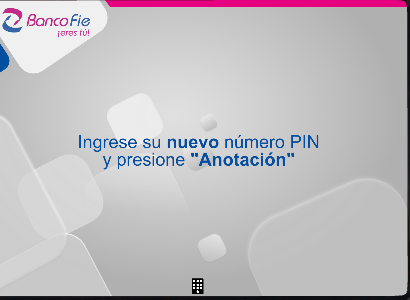
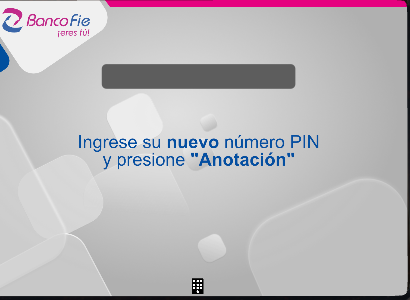
flow complete

Changed region(s): [[0.2341, 0.21, 0.7317, 0.3]]

diff --git a/old/atm/flow.js b/old/atm/flow.js
@@ -11,13 +11,42 @@ var flow = (() => {
     return new BABYLON.ExecuteCodeAction(BABYLON.ActionManager.OnPickTrigger, f );
   };
 
-  var unstickTheCard = function () {
+  var somethingElseScreen = {
+    buttons: ['touch r 1', 'touch r 2'],
+    actions: [
+      babylonAction(() => {
+        unstickTheCard();
+      }),
+      babylonAction(() => goToScreen("4"))
+    ]
+  }
+
+  var handleChangePinInput = function () {
+    if (game.numbersPanel.isEnabled() && game.numbersPanel.button.input.length >= 4) {
+      if (flow.currentScreen.name == "24") {
+        game.changeAtmCode = game.numbersPanel.button.input;
+        goToScreen("25");
+      } else if (flow.currentScreen.name == "25") {
+        if (game.changeAtmCode == game.numbersPanel.button.input) {
+          game.atmCode = game.changeAtmCode;
+          goToScreen("26");
+        } else {
+          goToScreen("27");
+        }
+      }
+    }
+  }
+
+  var unstickTheCard = function (goesBlank = true) {
     if (!game.isCardInside) return;
     game.isCardInside = false;
-    goToScreen("0");
+    if (goesBlank) {
+      goToScreen("0");
+    }
     game.card.setEnabled(true);
     game.skeleton.beginAnimation("UnstickTheCard", false, 1, function () {
       game.card.actionManager.registerAction(game.card.stickInAction);
+      if (!goesBlank) goToScreen("0");
     });
   };
 
@@ -54,7 +83,7 @@ var flow = (() => {
 
   var handlePinInput = function () {
     if (game.numbersPanel.isEnabled() && game.numbersPanel.button.input.length >= 4) {
-      if (game.numbersPanel.button.input === '0000') {
+      if (game.numbersPanel.button.input === game.atmCode) {
         goToScreen("7"); // code accepted, do your stuff
       } else { // wrong code!
         goToScreen("5");
@@ -74,7 +103,9 @@ var flow = (() => {
     receipt.actionManager.actions = [];
     money.actionManager.actions = [];
 
-    game.skeleton.beginAnimation("retrieve receipt and money", false);
+    game.skeleton.beginAnimation("retrieve receipt and money", false, 1, function () {
+      game.spitsMoney = true;
+    });
     setTimeout(() => {
       goToScreen("16");
     }, 1000);
@@ -111,10 +142,11 @@ var flow = (() => {
   }
 
   var f = () => {
-    if (game.query) {
-      game.query = false;
+    if (game.query || game.miniExtracto) {
+      game.miniExtracto = game.query = false;
+      game.spitsMoney = false;
+      flow.scene.getMeshByName("money out").setEnabled(false);
       game.skeleton.beginAnimation("SpitMoneyAndReceipt", false, 1, function () {
-        game.spitsMoney = false;
         flow.scene.getMeshByName("receipt").setEnabled(true);
         flow.scene.getMeshByName("money out").setEnabled(false);
         waitforRetrieval();
@@ -168,13 +200,15 @@ var flow = (() => {
     "23": { // canceled transaction
       buttons: ['touch r 1', 'touch r 2'],
       actions: [
-        babylonAction(unstickTheCard),
+        babylonAction(() => {
+          unstickTheCard();
+        }),
         babylonAction(function () { goToScreen("4"); })
       ]
     },
     "7": { // whatcha gonna do?
       buttons: ['touch l 3', 'touch l 2', 'touch l 1',
-                'touch r 3', 'touch r 2' ],
+                'touch r 3', 'touch r 2', 'touch r 1', 'touch r 0' ],
       actions: [
         babylonAction(function () { goToScreen("8"); }),
         babylonAction(function () {
@@ -191,6 +225,13 @@ var flow = (() => {
           game.transference = true;
           game.spitsMoney = false;
           goToScreen("28");
+        }),
+        babylonAction(() => {
+          goToScreen("24");
+        }),
+        babylonAction(() => {
+          game.miniExtracto = true;
+          goToScreen("20");
         })
       ]
     },
@@ -236,13 +277,7 @@ var flow = (() => {
     },
     "45": whithdrawScreen, // TODO: este es depósito también
     "47": whithdrawScreen, // TODO: este es depósito también
-    "16": { // something else?
-      buttons: ['touch r 1', 'touch r 2'],
-      actions: [
-        babylonAction(unstickTheCard),
-        babylonAction(() => goToScreen("4"))
-      ]
-    },
+    "16": somethingElseScreen, // something else?
     "19": { // quick whithdraw amount
       buttons: [ 'touch r 0', 'touch r 1', 'touch r 2', 'touch r 3',
                  'touch l 0', 'touch l 1', 'touch l 2', 'touch l 3'],
@@ -377,7 +412,23 @@ var flow = (() => {
           goToScreen("47");
         })
       ]
-    }
+    },
+    "24": {
+      requirePin: true,
+      hidePin: true,
+      onInput: handleChangePinInput
+    },
+    "25": {
+      requirePin: true,
+      hidePin: true,
+      onInput: handleChangePinInput
+    },
+    "26": somethingElseScreen,
+    "27": {
+      onCall: function () {
+        unstickTheCard(false);
+      }
+    },
   };
 
   var disableAllButtons = function () {
@@ -401,6 +452,9 @@ var flow = (() => {
     game.goToScreen(screenName);
     console.log(screenName, screens[screenName]);
     flow.currentScreen = screens[screenName];
+    if (flow.currentScreen) {
+      flow.currentScreen.name = screenName;
+    }
     disableAllButtons(flow.scene);
     if (screens[screenName]) {
       if (screens[screenName].buttons) {
@@ -450,23 +504,23 @@ var flow = (() => {
   };
 
   var confirm = function () {
-    game.spitsMoney = true;
-    game.transference = false;
-    game.quickWhithdraw = false;
+    clear();
     goToScreen("16");
   }
 
   var cancel = function () {
-    game.spitsMoney = true;
-    game.transference = false;
-    game.quickWhithdraw = false;
+    clear();
     goToScreen("23");
   }
 
-  var initializeChip = function () {
-    // goToScreen("10");
-    // game.isCardInAnimationOver = true;
+  var clear = function () {
+    game.spitsMoney = true;
+    game.transference = false;
+    game.quickWhithdraw = false;
+    game.miniExtracto = false;
+  }
 
+  var initializeChip = function () {
     game.card.setEnabled(false);
     game.isCardInAnimationOver = false;
     goToScreen("1");

diff --git a/old/atm/wtf.js b/old/atm/wtf.js
@@ -161,6 +161,8 @@ var game = (() => {
     isCardInAnimationOver: false,
     blocked: false,
     erasePanels: erasePanels,
-    spitsMoney: true
+    spitsMoney: true,
+    atmCode: '0000',
+    changeAtmCode: ''
   };
 })();
